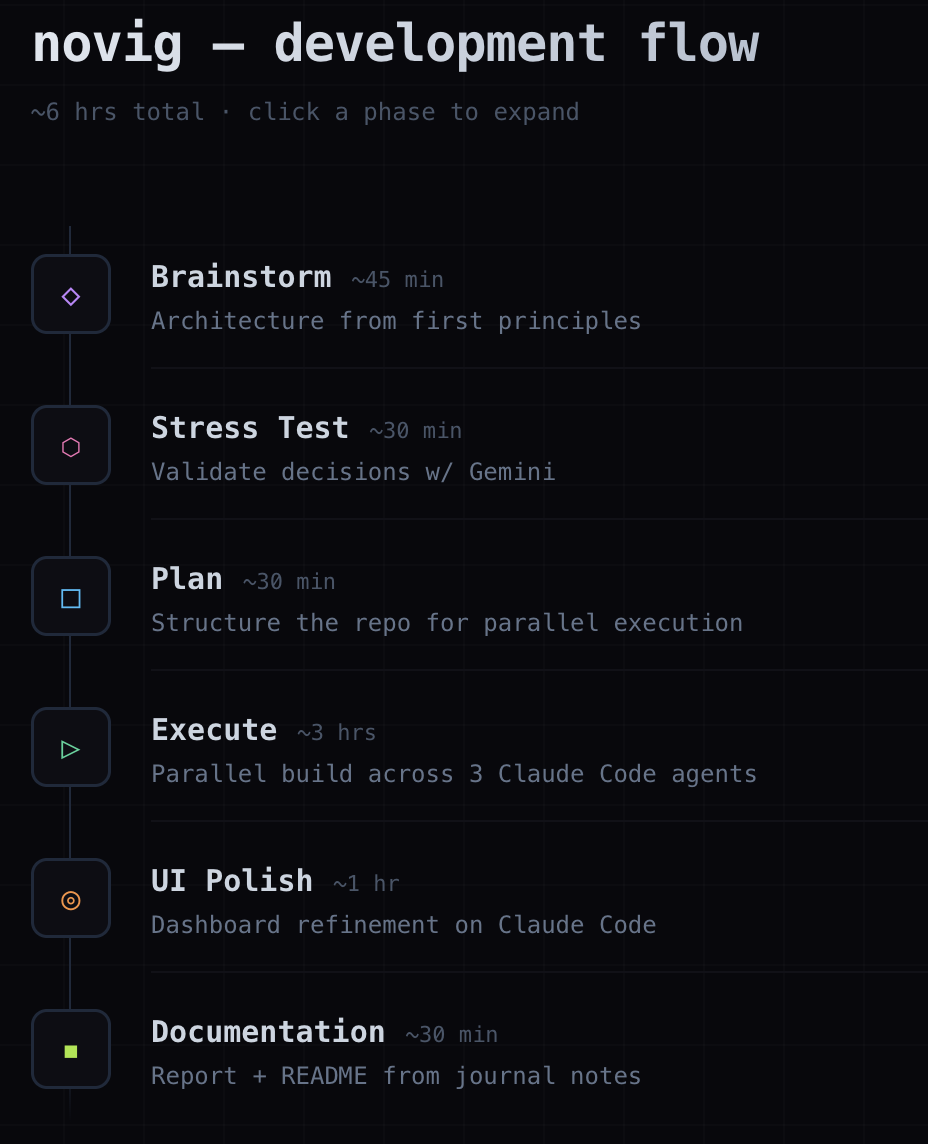
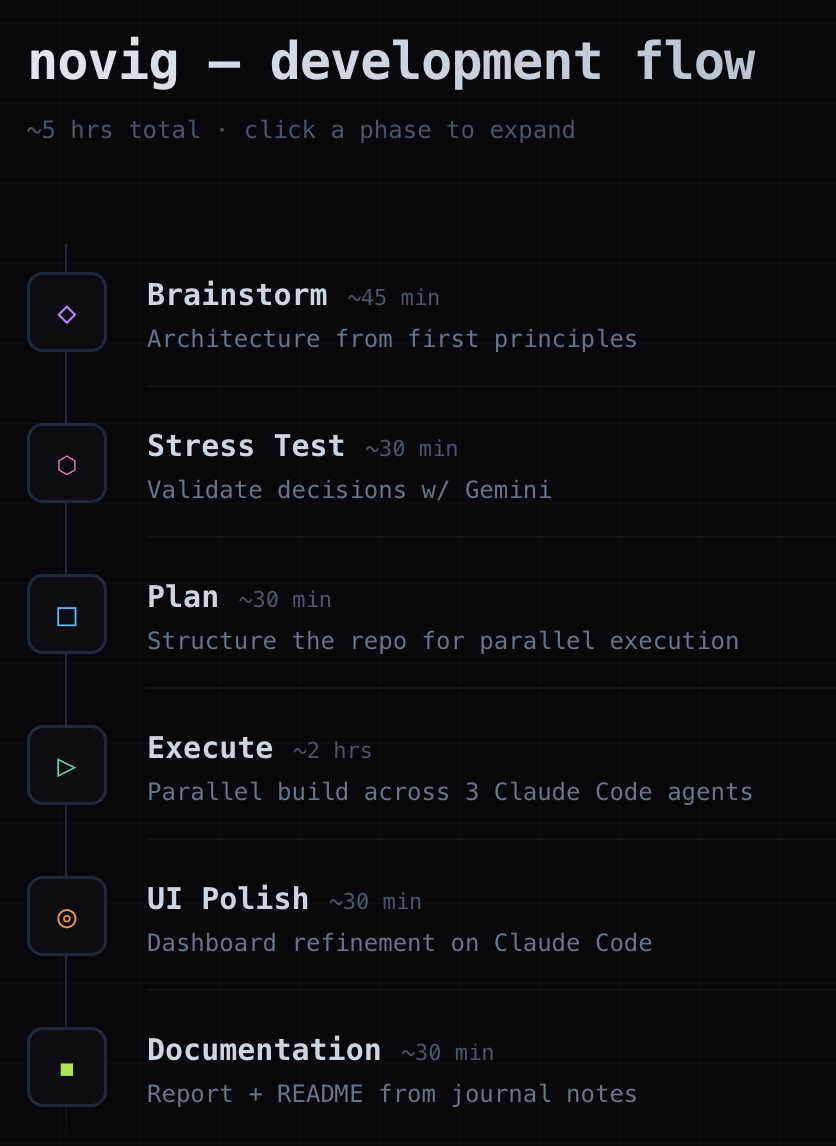
docs: update flow diagrams, fix broken refs, finalize readme

Changed region(s): [[0.0311, 0.2142, 0.9019, 0.979], [0.0311, 0.0, 0.9019, 0.1224], [0.6842, 0.9484, 0.7464, 0.979]]

diff --git a/readme.md b/readme.md
@@ -108,7 +108,7 @@ Before writing any code (~30 min), I stress-tested the architecture. Confirmed R
 
 ### Parallel Worktrees (~2 hrs)
 
-The three components are independent until integration. I created three git worktrees off the same repo, each with its own branch, implementation plan, test suite, and Dockerfile. Merges are sequential: core first (fast-forward), then replica, then UI. After all three merged, I opened a `ui-overhaul` branch for observability refinements, now merged into `main`. See `docs/flow/git_flow.png` for the visual.
+The three components are independent until integration. I created three git worktrees off the same repo, each with its own branch, implementation plan, test suite, and Dockerfile. Merges are sequential: core first (fast-forward), then replica, then UI. After all three merged, I opened a `ui-overhaul` branch for observability refinements, now merged into `main`. See `docs/flow/architecture.png` for the visual.
 
 | Phase | Branch | Commits | Description |
 |-------|--------|---------|-------------|
@@ -152,9 +152,9 @@ Each component has pytest/Vitest tests that validate the data contract independe
 
 **Stress testing (~30 min).** Used Gemini to validate transport decisions (Redis Streams vs Kafka), async patterns, state recovery, and identify edge cases in the A-S model.
 
-**Planning (~30 min).** Used Gemini to generate the development flow diagrams (`docs/flow/work_flow.png` shows the 6-phase timeline, `docs/flow/git_flow.png` shows branch/merge/test strategy). Also used Gemini to structure the implementation specs in `docs/`.
+**Planning (~30 min).** Used Gemini to generate the development flow diagrams (`docs/flow/work_flow.png` shows the 6-phase timeline, `docs/flow/architecture.png` shows branch/merge/test strategy). Also used Gemini to structure the implementation specs in `docs/`.
 
-**Execution (~2 hrs).** Used Claude Code with 3 parallel worktree agents, one per component (core, replica, UI). Each agent received a detailed implementation spec and executed independently. `docs/flow/worktree_agent_instructions.png` shows an actual agent prompt.
+**Execution (~2 hrs).** Used Claude Code with 3 parallel worktree agents, one per component (core, replica, UI). Each agent received a detailed implementation spec and executed independently. `docs/flow/agent_orchestration.png` shows an actual agent prompt.
 
 **UI polish (~1h).** Used Claude Code for dashboard refinement. Dark finance theme recycled from a previous trading dashboard project (exquant-frontend), not built from scratch.
 
@@ -164,11 +164,12 @@ Each component has pytest/Vitest tests that validate the data contract independe
 - Claude proposed separate files (pitch.py, pricing.py, types.py) in core. Collapsed to single engine.py (~135 lines). Splitting would be overengineering.
 - Claude wanted Recharts for the order book. HTML table with CSS depth bars is faster and cleaner at high update rates.
 - Claude suggested incremental book updates. Full snapshots at 5 levels are tiny, avoids add/remove/modify complexity.
-- Claude insists on long long documentation, I disagree
+- Claude insists on long long documentation, I disagree, high level steps and conversational flow allows for better retention
 
 ---
 
 ## What's Next
 
-- Stateless vs stateful replica spawn: let replicas choose `$` (current only) vs `0` (full replay) on wake, useful for load balancing scenarios.
-- Redis consumer groups: right now each replica tracks its own cursor independently. Consumer groups would add coordinated consumption if replicas needed to shard the workload rather than replicate it.
+- Dynamic instances for real: put a lightweight orchestrator (or just a bash script hitting `docker run`) behind an API endpoint so the UI can spawn/kill replicas on demand instead of pre-configuring them in the compose file.
+- Stateless vs stateful on wake: let each replica choose `$` (current only) vs `0` (full replay) so you can mix fresh consumers with ones that catch up from history.
+- Redis consumer groups if replicas ever need to shard work instead of all reading the same stream.
